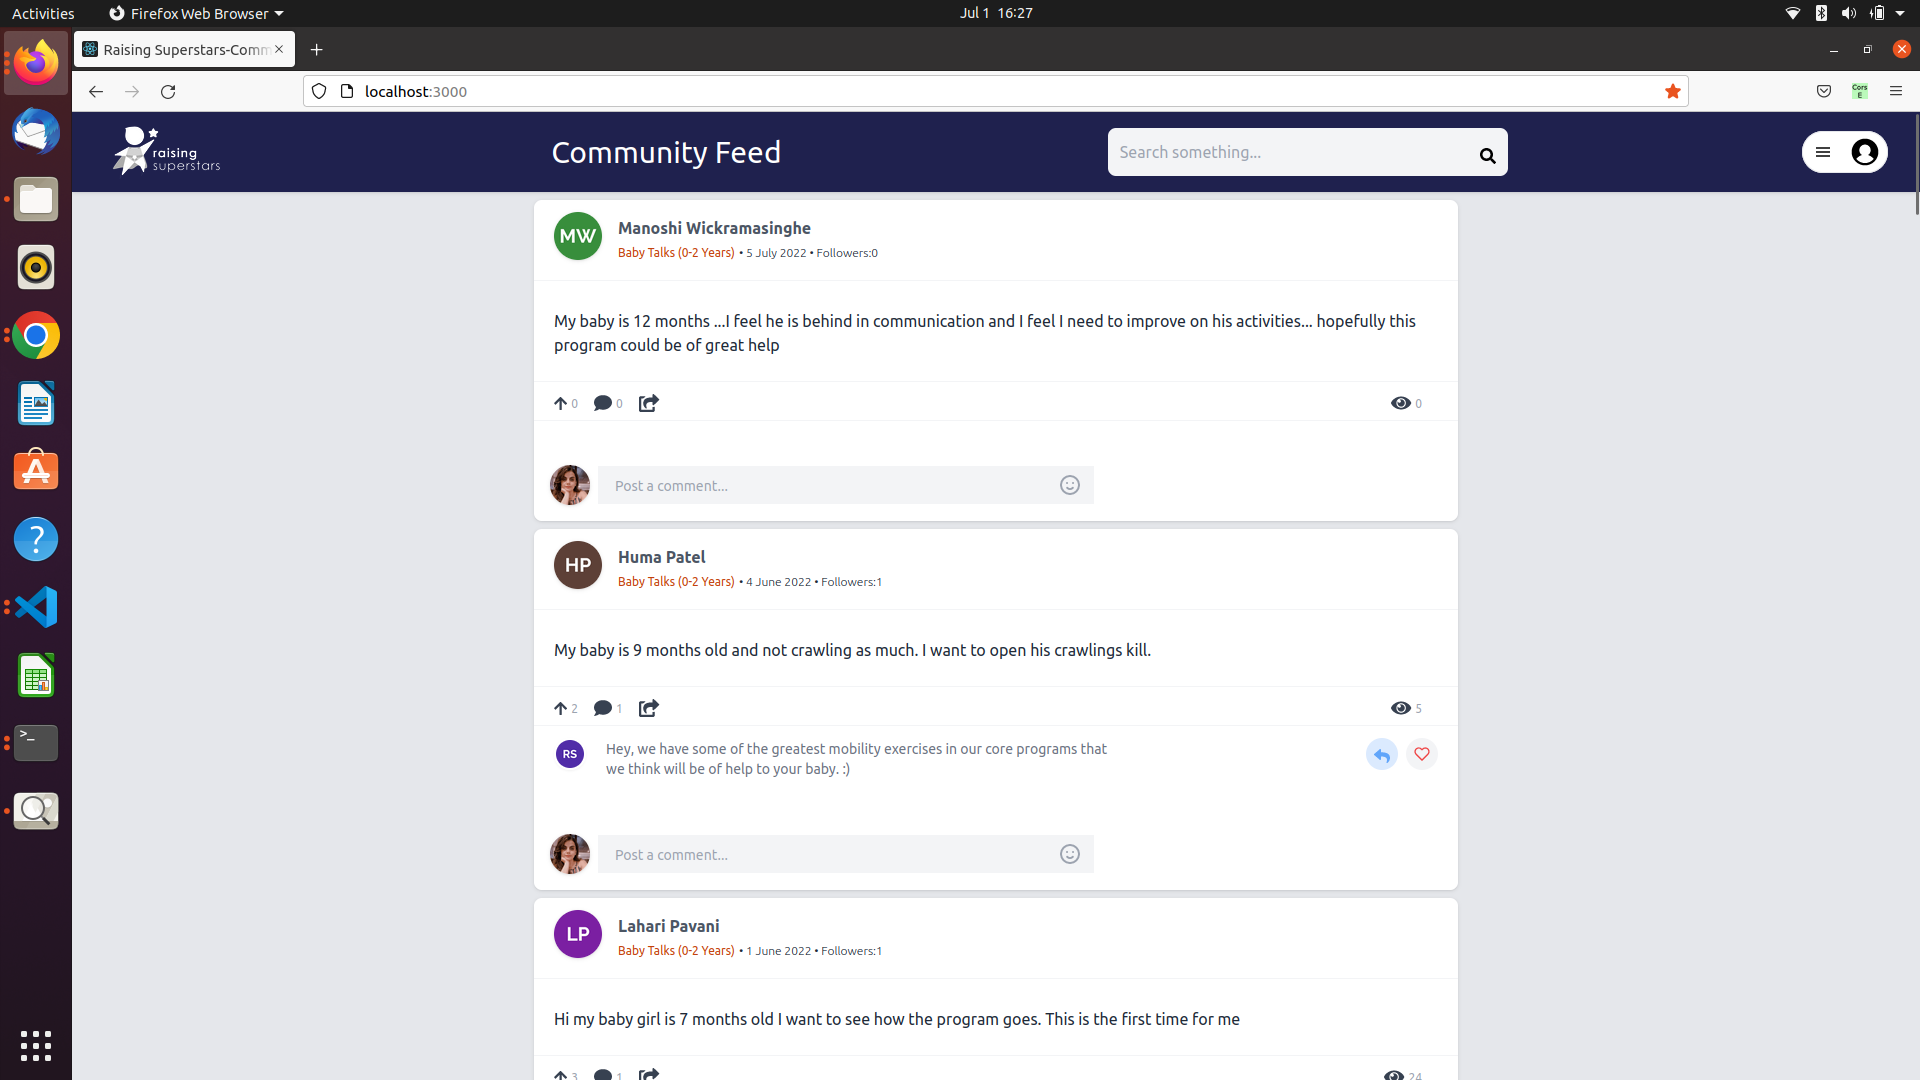
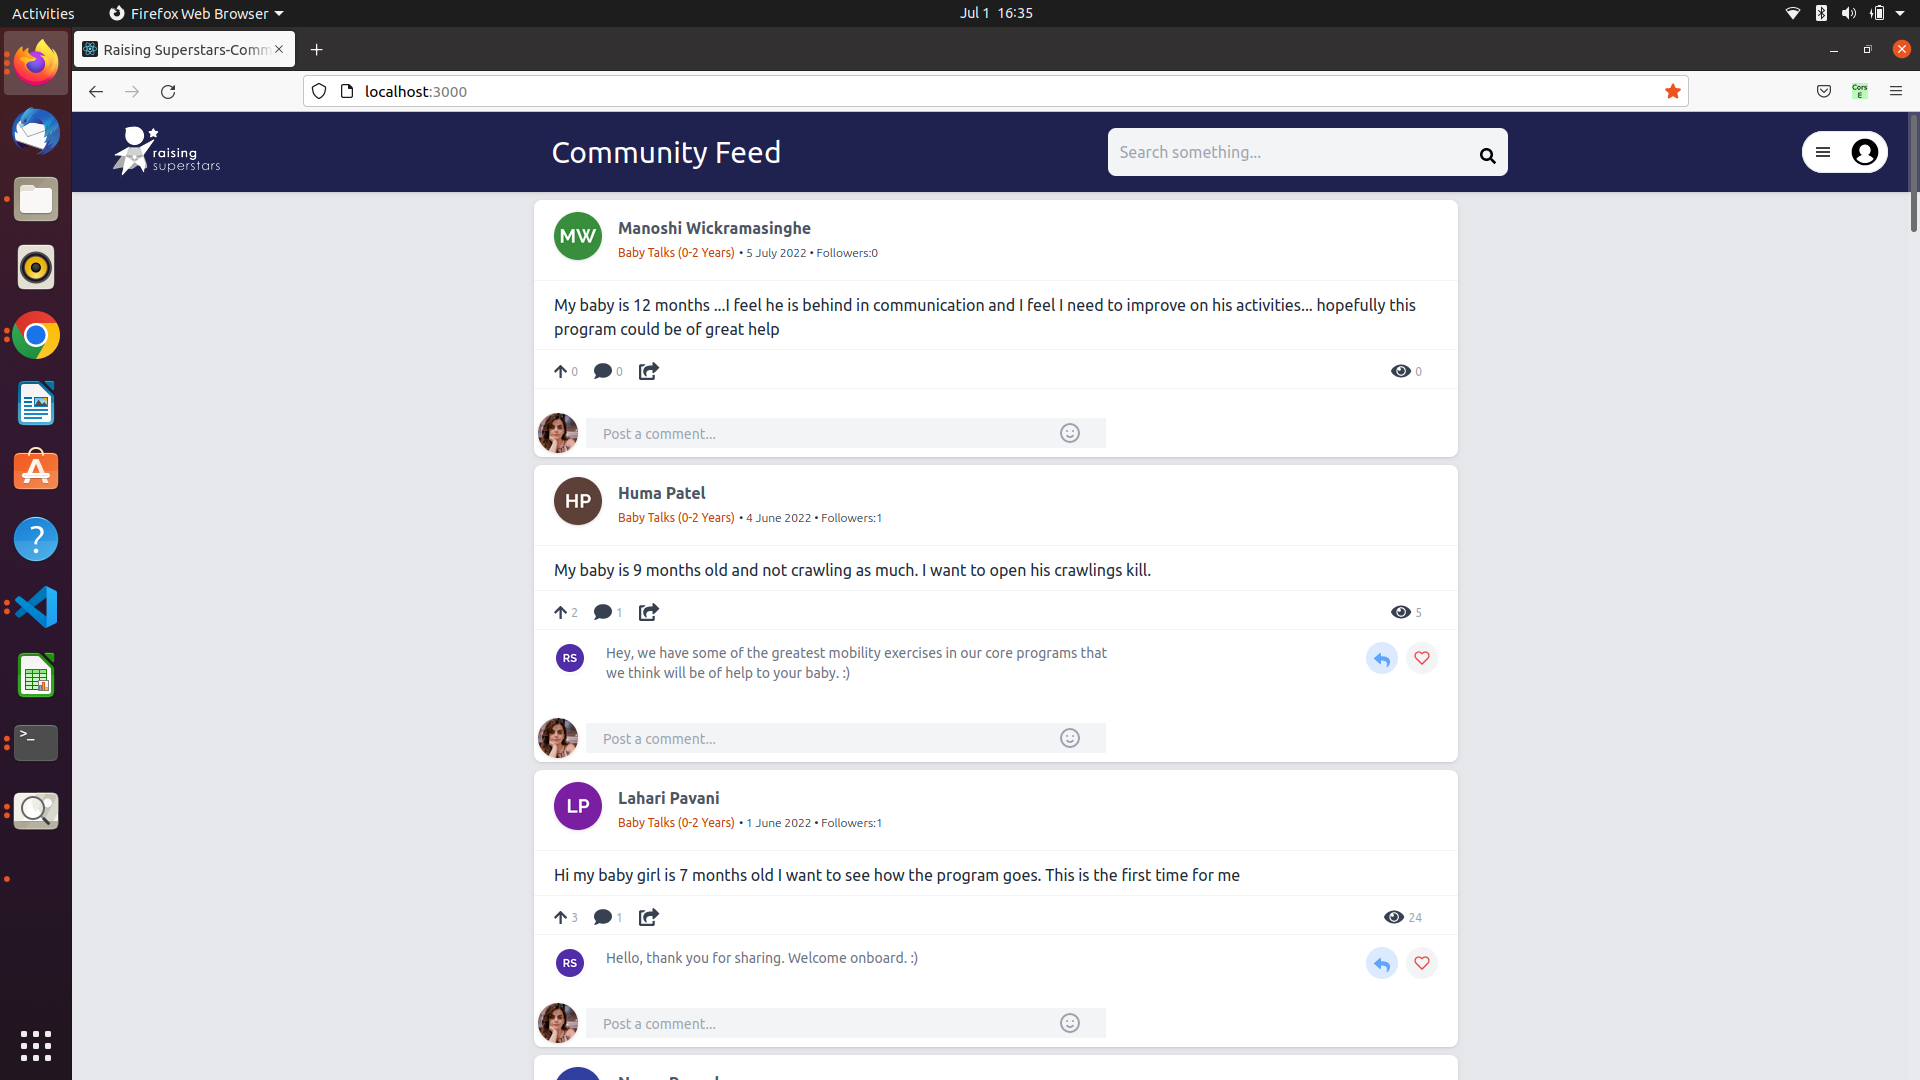
updated images in ReadMe1

Changed region(s): [[0.2812, 0.275, 0.75, 1.0], [0.9688, 0.0917, 1.0, 0.2139], [0.6875, 0.8861, 0.75, 0.9167]]

diff --git a/src/components/Posts/Post/Post.jsx b/src/components/Posts/Post/Post.jsx
@@ -33,11 +33,11 @@ const Post = (post) => {
                     </div>
                 </div>
                 <div className="border-b border-gray-100"></div> 
-                <div className="text-gray-400 font-medium text-sm mb-7 mt-6 mx-3 px-2">
+                <div className="text-gray-400 font-medium text-sm mb-1 mt-3 mx-3 px-2">
 
                     <Image data={post.post.post.images} key={post.post._id}></Image>
                 </div>
-                <div className="text-gray-800 text-md mb-6 mx-3 px-2">{post.post.post.content}</div>
+                <div className="text-gray-800 text-md mb-2 mx-3 px-2">{post.post.post.content}</div>
                 <div className="flex w-full border-t border-gray-100">
                     <div className="mt-3 mx-5 flex flex-row text-xs">
                     <div className="flex text-gray-700  rounded-md mb-2 mr-4 items-center"><FontAwesomeIcon icon={faArrowUp}  size="lg"/> <div className="ml-1 text-gray-400 text-ms"> {post.post.post.counts.upvotes}</div></div>
@@ -51,7 +51,7 @@ const Post = (post) => {
 
                     </div>
                 </div>
-                <div className="flex justify-in-between mb-4 border-t border-gray-100">
+                <div className="flex justify-in-between mb-2 border-t border-gray-100">
                     <div className="flex w-full mt-1 pt-2 pl-5">
                        
                         <Comment className data={post.post.post.comments} key={post.post._id}></Comment>
@@ -72,7 +72,7 @@ const Post = (post) => {
                     
                 </div>
                
-                <div className="relative flex items-center self-center w-full max-w-xl p-4 overflow-hidden text-gray-600 focus-within:text-gray-400">
+                <div className="relative flex items-center self-center w-full max-w-xl p-1 overflow-hidden text-gray-600 focus-within:text-gray-400">
                     <img className="w-10 h-10 object-cover rounded-full shadow mr-2 cursor-pointer" alt="User avatar" src={user_img}/>
                     <span className="absolute inset-y-0 right-0 flex items-center pr-6">
                         <button type="submit" className="p-1 focus:outline-none focus:shadow-none hover:text-blue-500">
@@ -82,7 +82,7 @@ const Post = (post) => {
 
                         </button>
                     </span>
-                     <input type="search" className="w-full py-2 pl-4 pr-10 text-sm bg-gray-100 border border-transparent appearance-none rounded-tg placeholder-gray-400 focus:bg-white focus:outline-none focus:border-blue-500 focus:text-gray-900 focus:shadow-outline-blue"  placeholder="Post a comment..." autoComplete="off"/>
+                     <input type="search" className="w-full py-1 pl-4 pr-10 text-sm bg-gray-100 border border-transparent appearance-none rounded-tg placeholder-gray-400 focus:bg-white focus:outline-none focus:border-blue-500 focus:text-gray-900 focus:shadow-outline-blue"  placeholder="Post a comment..." autoComplete="off"/>
                 </div>
             </div>
     );
